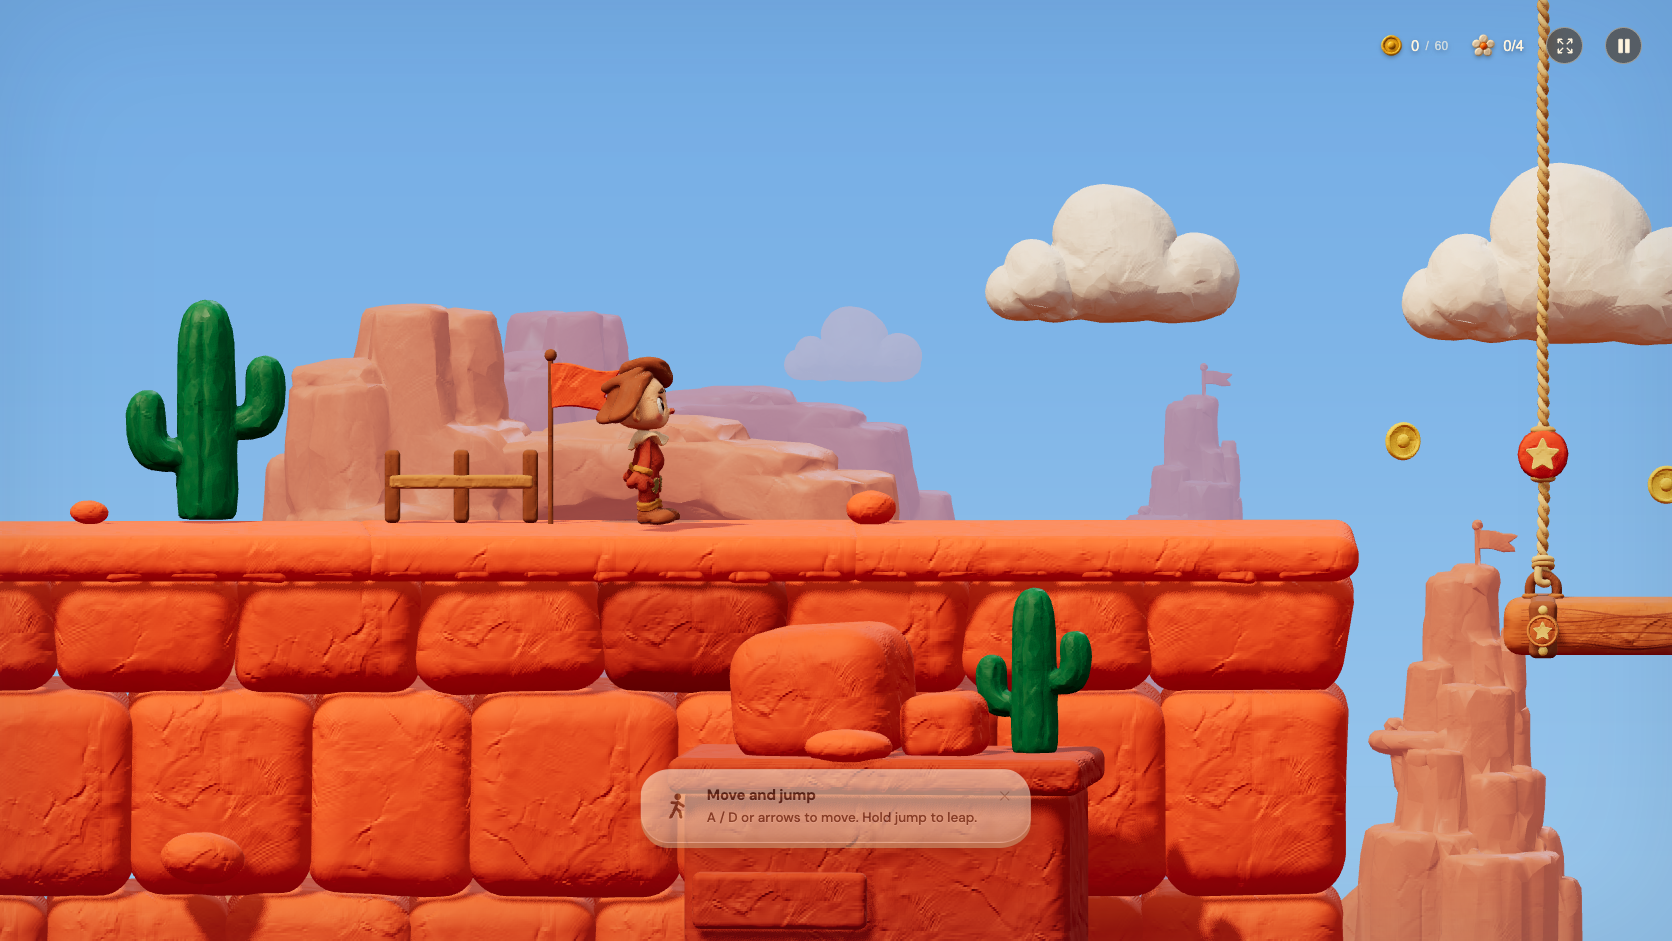
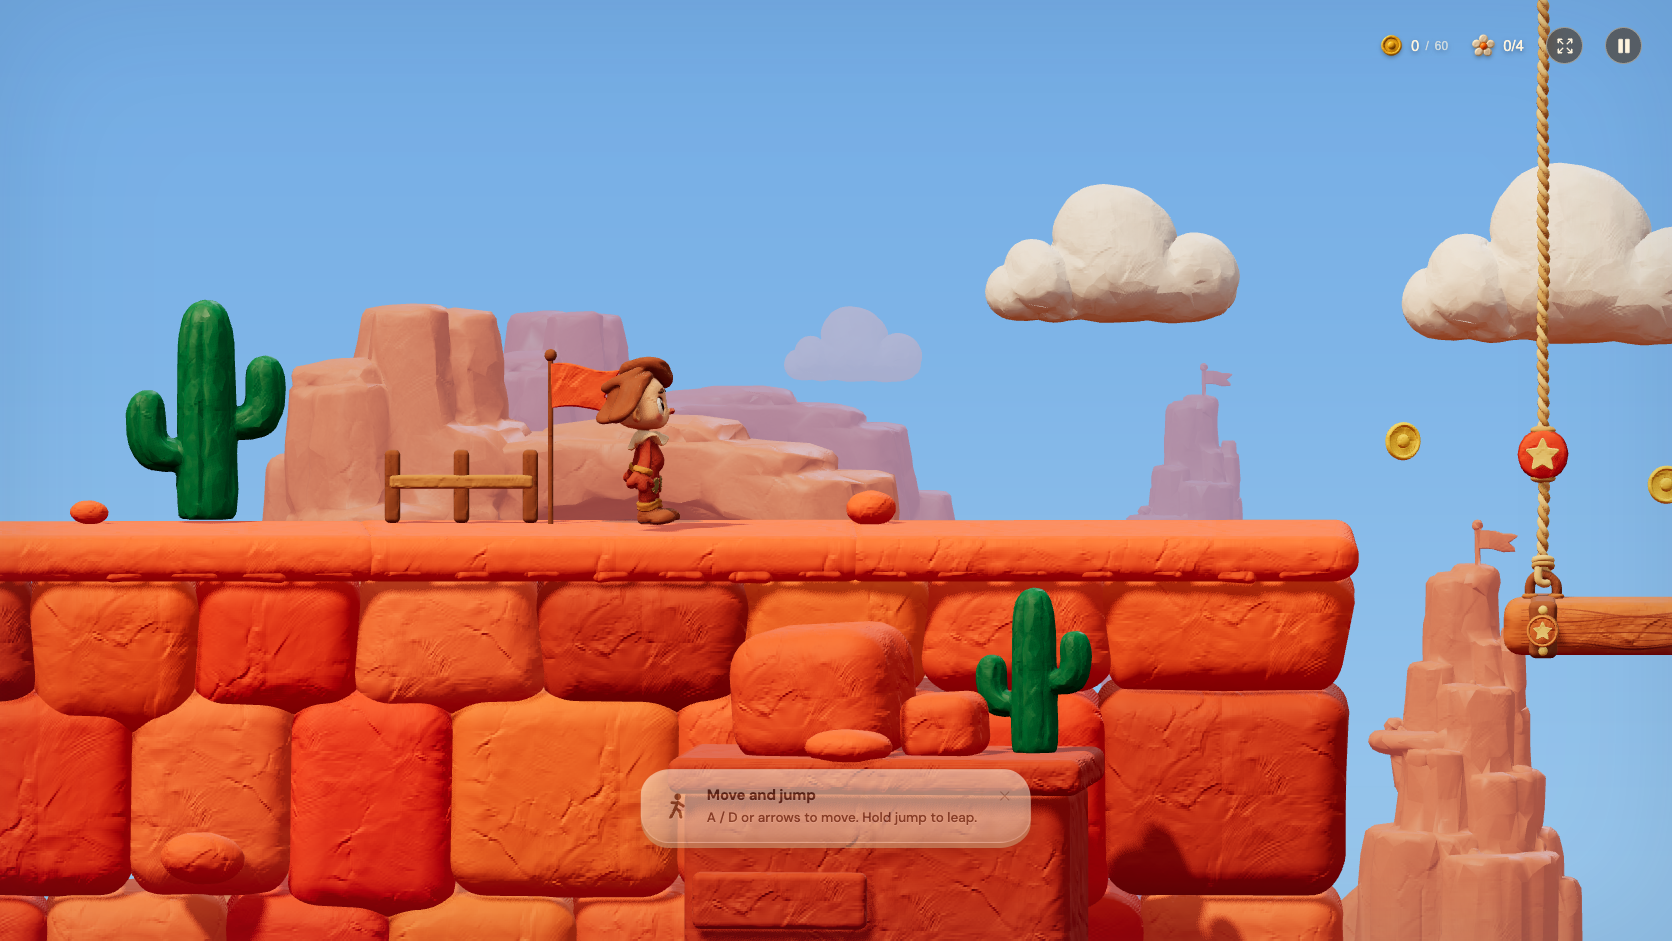
Give the bricks the old slabs' variety in shade and height
The slabs differed a little in brightness and hue from block to block and
split each column at its own height, so the joints stepped across the face;
ruled courses of three near-identical shades lost both. Six shades now, as
small hue, saturation and lightness offsets from the terrain clay — hue
within two degrees, lightness within four percent; twice that read as a
patchwork — with the darker clay one brick in seven. About half the bricks
in a course stand a quarter or half a unit taller, growing down into the
course below and a hair forward so the extra shows, as a scale on the shared
shape rather than another shape in the cache. Widths run 1.75–2.75.

Changed region(s): [[0.0, 0.6164, 0.5909, 1.0], [0.5909, 0.6164, 0.8086, 0.9862], [0.7775, 0.9862, 0.8086, 1.0]]

diff --git a/dist/canyon.js b/dist/canyon.js
@@ -163,18 +163,29 @@ export function plankSpan(w,s,g){
 // last brick of a row and the last row take up the slack. Only a brick's
 // place and its slight lean are unique, and those cost no geometry.
 const ROW_HEIGHTS=[1.5,1.75,2,2.25,2.5],BRICK_W=2.25,BRICK_RADIUS=.45,BRICK_SEGMENTS=4,PILLOW=.1;
+// Not every brick in a course is the course's height. The old slabs split
+// each column at its own height, so the joints stepped across the face
+// instead of ruling straight lines, and the reference's bricks vary the same
+// way. About half the bricks stand a quarter or half a unit taller, growing
+// down into the course below and a hair forward of it so the extra shows;
+// the last course cannot, since nothing is below it to grow into. The stretch
+// is a scale on the shared shape, not another shape in the cache.
+const STRETCH=r=>r<.5?0:r<.85?.25:.5;
 const snap=v=>Math.round(v*4)/4;
-// Bricks of one clay, not a checkerboard: the reference's courses are one hue
-// with the joints doing the work. Three near-identical shades, each with its
-// own fingerprint offset so neighbours never share a print, and the darker
-// clay kept for one brick in twelve. Cached with the caps' variants.
-const BRICK_SHADES=[1,.95,1.04];
+// Bricks of one clay with the slight variety of a batch pressed by hand: the
+// old slabs read that way — some a shade brighter, some leaning red, some
+// leaning toward the caps' lighter orange — and a first pass at three shades
+// within five percent lost it. Six shades as hue, saturation and lightness
+// offsets from the terrain clay, each with its own fingerprint offset so
+// neighbours never share a print, and the darker clay for one brick in
+// seven. Cached with the caps' variants.
+const BRICK_SHADES=[[0,0,0],[.006,0,.025],[-.006,.015,-.025],[.003,-.03,.035],[-.004,.02,-.04],[.002,.01,-.012]];
 function brickMaterial(w,seed){
-  if(!w.clay)return random(seed)<.08?'terrain2':'terrain';
-  if(random(seed)<.08)return w.mat.terrain2;
+  if(!w.clay)return random(seed)<.14?'terrain2':'terrain';
+  if(random(seed)<.14)return w.mat.terrain2;
   const variant=Math.abs(Math.floor(seed*7))%BRICK_SHADES.length;w.canyonBricks??=new Map();
   if(!w.canyonBricks.has(variant)){
-    const m=w.mat.terrain.clone();m.color.copy(w.mat.terrain.color).multiplyScalar(BRICK_SHADES[variant]);
+    const [h,s,l]=BRICK_SHADES[variant],m=w.mat.terrain.clone();m.color.copy(w.mat.terrain.color).offsetHSL(h,s,l);
     m.userData={clayOffset:[variant*2.13,variant*1.07,variant*.61]};
     clayMaterial(w,m,w.mat.terrain.userData.clay?.requestedDepth);w.assetMaterials.add(m);w.canyonBricks.set(variant,m);
   }return w.canyonBricks.get(variant);
@@ -190,16 +201,17 @@ function courses(w,g,width,height,top,seed,depth=3.35){
     // Running bond: every other row shifts by half a brick, and each drifts a
     // little of its own, so the joints never line up into a grid.
     const drift=(row%2)*BRICK_W*.5+(random(seed+row*3)-.5)*.3,widths=[];
-    for(let x=-drift;x<width-1e-3;){const bw=snap(BRICK_W+(random(seed+row*13+widths.length*5)-.5)*.5);widths.push([Math.max(0,x),Math.min(width,x+bw)]);x+=bw;}
+    for(let x=-drift;x<width-1e-3;){const bw=snap(BRICK_W+(random(seed+row*13+widths.length*5)-.5)*1.1);widths.push([Math.max(0,x),Math.min(width,x+bw)]);x+=bw;}
     // A stub narrower than a hand at either end joins its neighbour.
     if(widths.length>1&&widths[0][1]-widths[0][0]<.7){widths[1][0]=0;widths.shift();}
     if(widths.length>1&&widths.at(-1)[1]-widths.at(-1)[0]<.7){widths.at(-2)[1]=width;widths.pop();}
+    const last=remaining-h<1e-3;
     widths.forEach(([x0,x1],i)=>{
-      const bw=snap(x1-x0),k=seed+row*17+i*29;
+      const bw=snap(x1-x0),k=seed+row*17+i*29,stretch=last?0:STRETCH(random(k+4));
       // Bricks overlap by a finger so the courses stay solid where a snapped
       // width falls short; the rounded corners still leave the joint a groove.
-      const brick=block(w,g,bw+.06,h+.06,depth+(row%2)*.12,(x0+x1)/2,y-h/2,-.05+(random(k+1)-.5)*.1,brickMaterial(w,k),k,{radius:BRICK_RADIUS,segments:BRICK_SEGMENTS,pillow:PILLOW});
-      brick.rotation.z=(random(k+2)-.5)*.03;brick.name='Pressed brick';
+      const brick=block(w,g,bw+.06,h+.06,depth+(row%2)*.12,(x0+x1)/2,y-h/2-stretch/2,-.05+stretch*.25+(random(k+1)-.5)*.06,brickMaterial(w,k),k,{radius:BRICK_RADIUS,segments:BRICK_SEGMENTS,pillow:PILLOW});
+      brick.scale.y=(h+.06+stretch)/(h+.06);brick.rotation.z=(random(k+2)-.5)*.03;brick.name='Pressed brick';
     });
     y-=h;remaining-=h;row++;
   }

diff --git a/docs/canyon-bricks/README.md b/docs/canyon-bricks/README.md
@@ -20,8 +20,16 @@ grooves. Each brick's place, lean and depth jitter are unique; its geometry
 is one of ~240 shapes shared across the chapter. `buildCanyonWall` (solid
 `wall` bodies, e.g. under the Sandwright's Pocket) uses the same courses.
 
-**One clay, not a checkerboard.** Three shades within ±5 % with their own
-fingerprint offsets (`brickMaterial`), the darker clay one brick in twelve.
+**The batch's slight variety.** The old slabs differed a little in brightness
+and hue block to block, and split each column at its own height, so joints
+stepped across the face; a first pass at three shades within 5 % in ruled
+courses lost both, and the user asked for them back. Six shades as small
+hue/saturation/lightness offsets from the terrain clay (`BRICK_SHADES`,
+hue within ±2°, lightness within ±4 %), each with its own fingerprint offset,
+the darker clay one brick in seven; and about half the bricks in a course
+stand a quarter or half a unit taller (`STRETCH`), growing down into the
+course below and a hair forward, as a `scale.y` on the shared shape. A first
+try at twice these offsets read as a patchwork.
 
 **The cap is the cave's pressed plate.** Thumb hollows and a rolled rim
 (`pressedPlate` in `cavern.js`, split out of `caveCap`), in the canyon's cap
